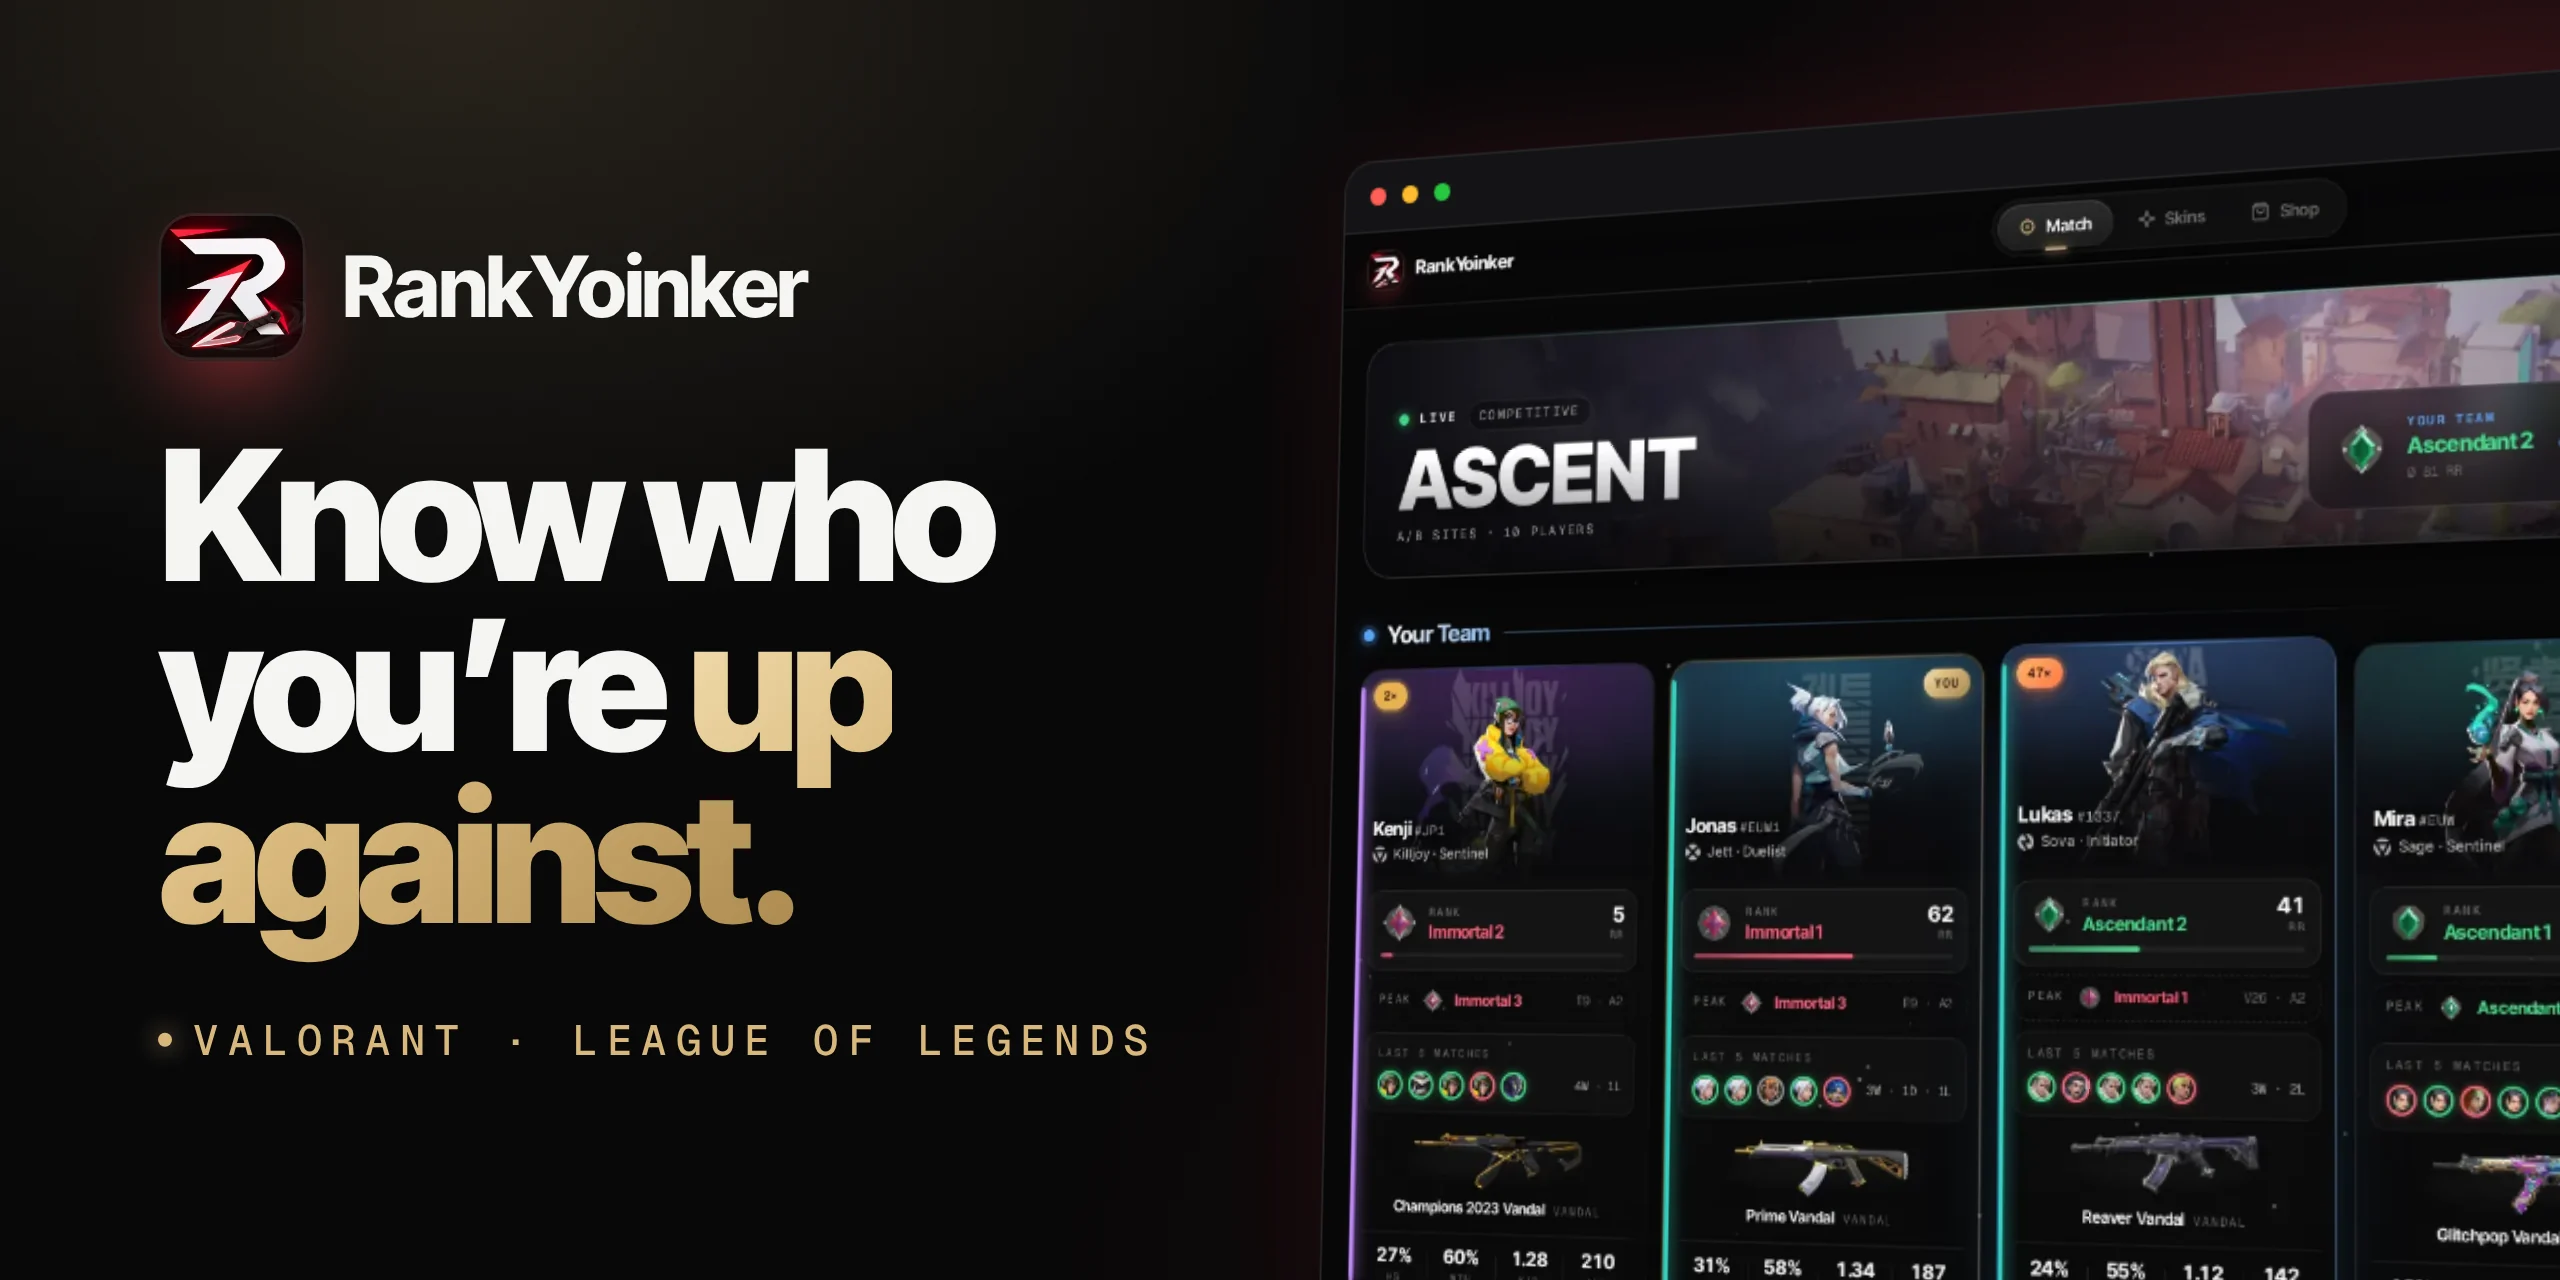
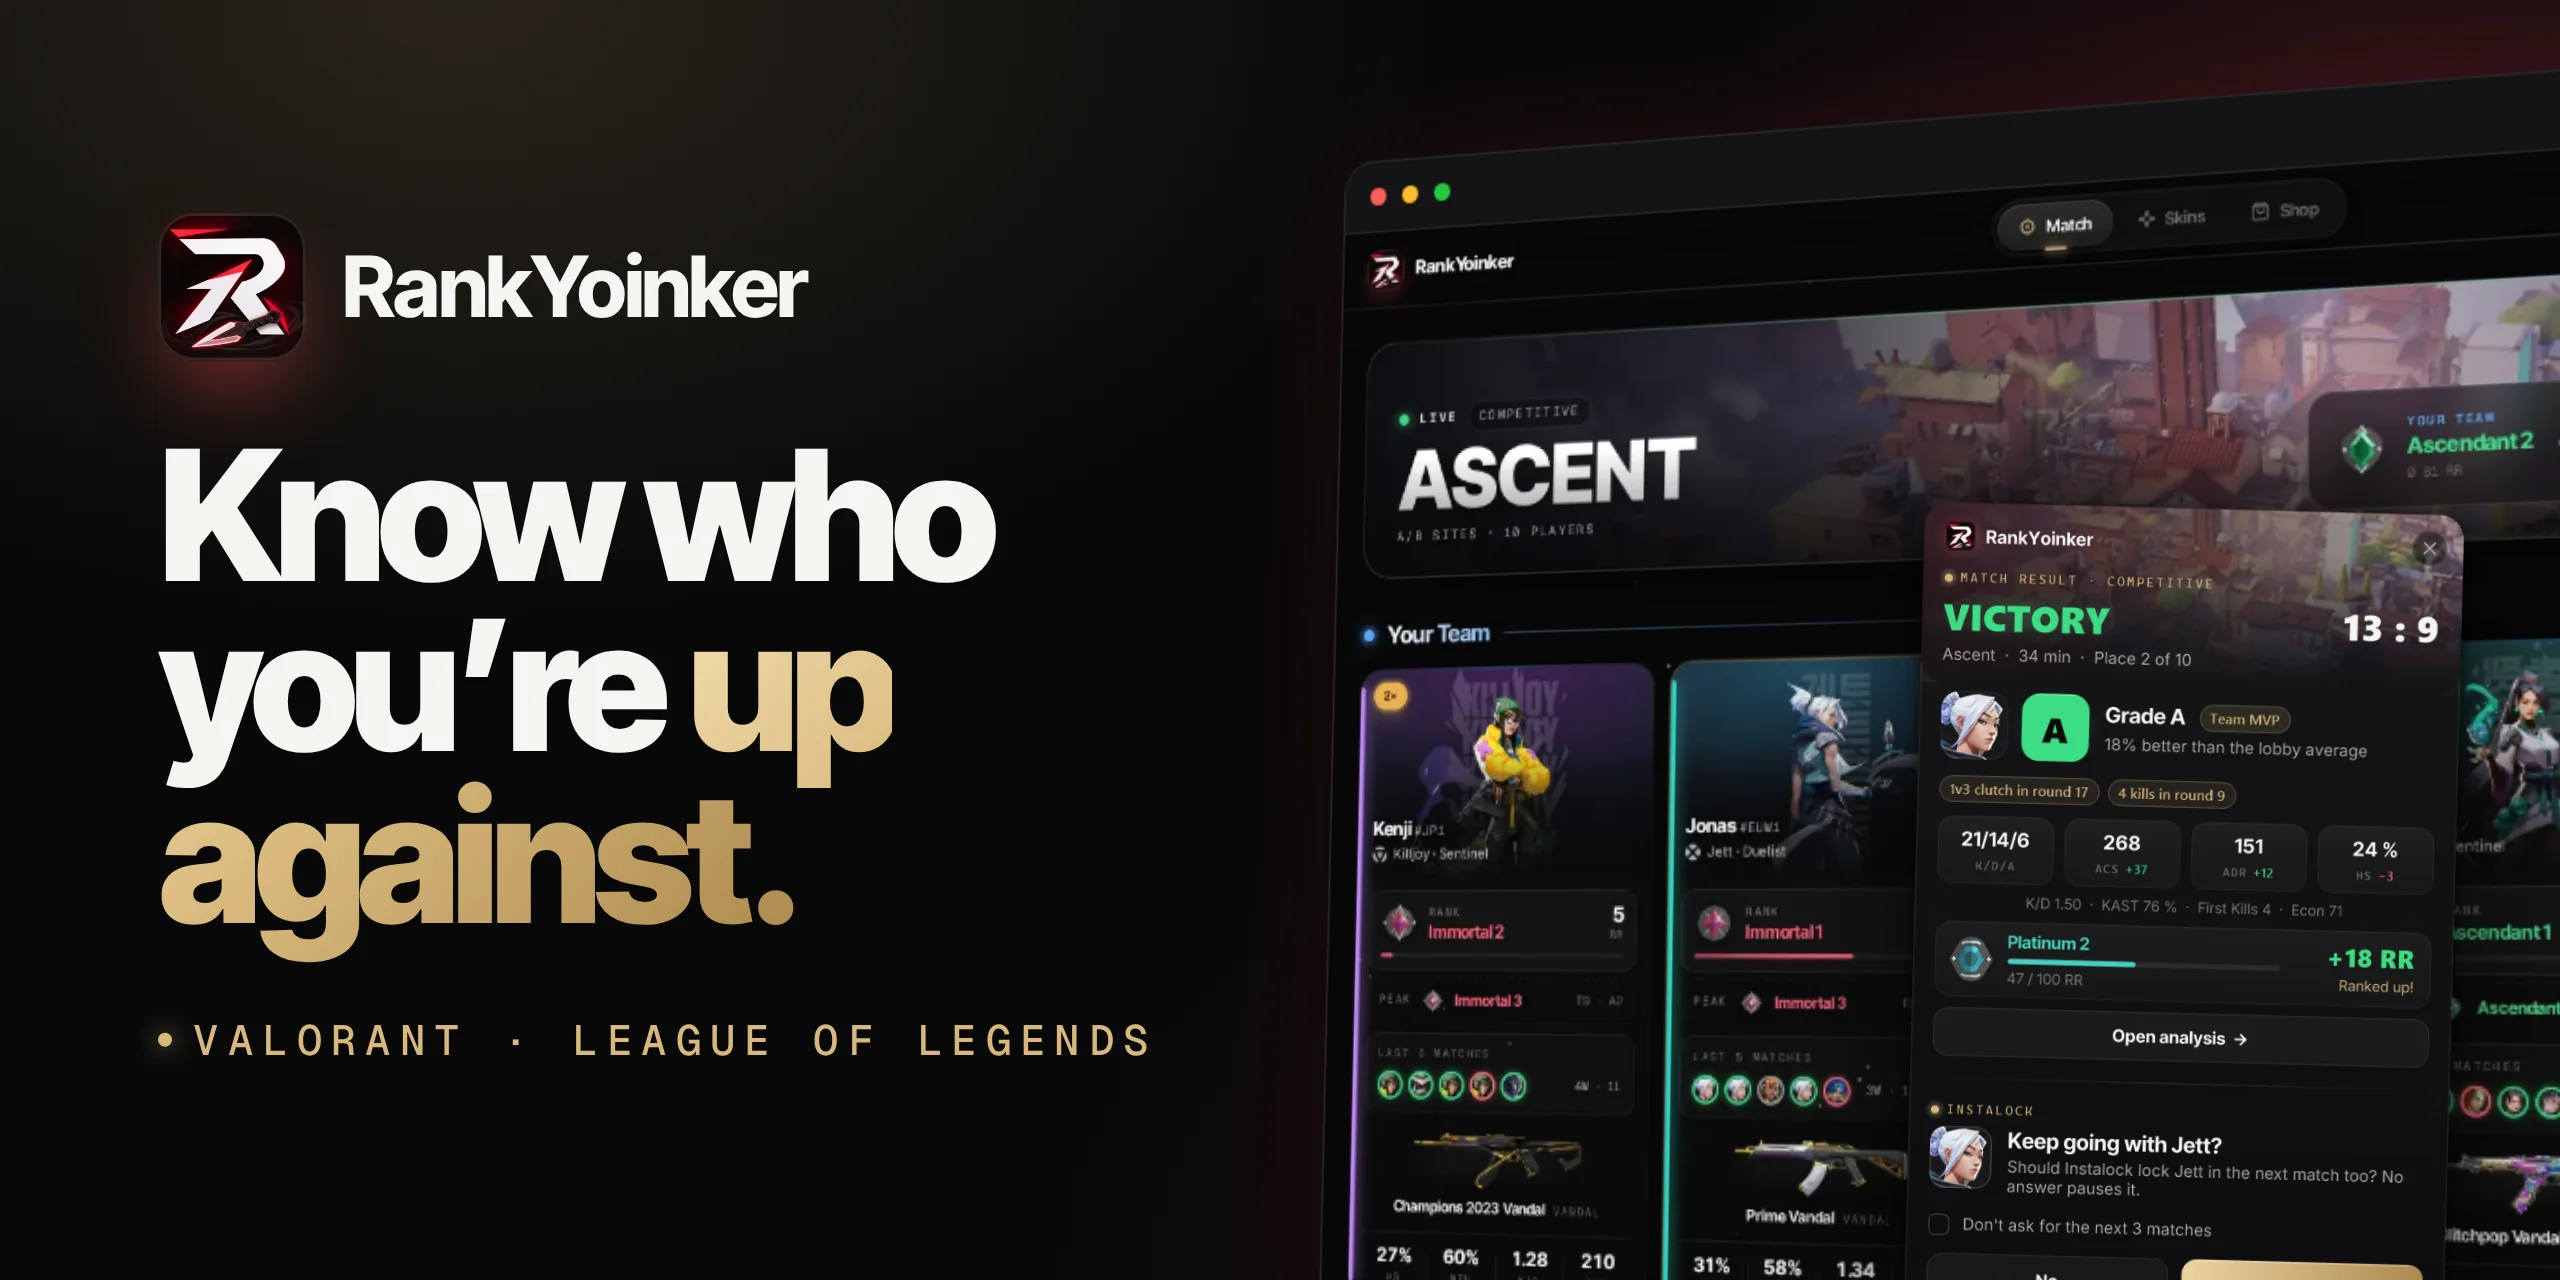
README: game overlay (2.5.5), new images with overlay, 10 languages

Changed region(s): [[0.7188, 0.375, 1.0, 1.0], [0.9062, 0.8438, 0.9688, 0.875], [0.9375, 0.7812, 0.9688, 0.8125]]

diff --git a/README.md b/README.md
@@ -1,6 +1,6 @@
 <div align="center">
 
-<a href="https://rankyoinker.de"><img src="docs/banner.webp" alt="RankYoinker: Know who you're up against. For VALORANT and League of Legends." width="100%"></a>
+<a href="https://rankyoinker.de"><img src="docs/banner.webp?v=2" alt="RankYoinker: Know who you're up against. For VALORANT and League of Legends." width="100%"></a>
 
 <br>
 
@@ -17,27 +17,30 @@ Plus instalock, auto pick, matchup builds, skins and your shop. One app for VALO
 
 ### [Download](https://rankyoinker.de/download) &nbsp;·&nbsp; [Website](https://rankyoinker.de) &nbsp;·&nbsp; [Live&nbsp;preview](https://rankyoinker.de/demo/) &nbsp;·&nbsp; [Discord](https://rankyoinker.de/discord)
 
-<sub>Windows 10/11 &nbsp;·&nbsp; free,&nbsp;no&nbsp;ads &nbsp;·&nbsp; open&nbsp;source &nbsp;·&nbsp; 7&nbsp;languages</sub>
+<sub>Windows 10/11 &nbsp;·&nbsp; free,&nbsp;no&nbsp;ads &nbsp;·&nbsp; open&nbsp;source &nbsp;·&nbsp; 10&nbsp;languages</sub>
 
 </div>
 
 <br>
 
-RankYoinker runs quietly in the background and fills in the overview on its own as soon as you play. There's no button to press and no overlay to toggle: open `http://rankyoinker` in any browser (or on your phone) and everything is there. It switches between VALORANT and League by itself.
+RankYoinker runs quietly in the background and fills in the overview on its own as soon as you play. There's no button to press: open `http://rankyoinker` in any browser (or on your phone) and everything is there. It switches between VALORANT and League by itself. New in 2.5.5: small windows right inside VALORANT, so you don't even have to tab out.
 
 ## VALORANT
 
 <table>
 <tr>
-<td width="50%"><img src="docs/screenshots/val-match.webp" alt="Live match overview with ranks, peak, RR and last matches of all ten players"><br><sub><b>Live match</b>: every player's rank, stats and parties</sub></td>
-<td width="50%"><img src="docs/screenshots/val-agent.webp" alt="Agent select in the browser with instalock"><br><sub><b>Agent select</b>: hover, lock and instalock from the browser</sub></td>
+<td width="50%"><img src="docs/screenshots/val-match.webp?v=2" alt="Live match overview with ranks, peak, RR and last matches of all ten players"><br><sub><b>Live match</b>: every player's rank, stats and parties</sub></td>
+<td width="50%"><img src="docs/screenshots/val-agent.webp?v=2" alt="Agent select in the browser with instalock"><br><sub><b>Agent select</b>: hover, lock and instalock from the browser</sub></td>
 </tr>
 <tr>
-<td width="50%"><img src="docs/screenshots/val-skins.webp" alt="Skins and loadout presets"><br><sub><b>Skins</b>: swap skins and save whole loadouts as presets</sub></td>
-<td width="50%"><img src="docs/screenshots/val-shop.webp" alt="Daily shop, bundles and Night Market"><br><sub><b>Shop</b>: daily offers, bundles and the Night Market</sub></td>
+<td width="50%"><img src="docs/screenshots/val-skins.webp?v=2" alt="Skins and loadout presets"><br><sub><b>Skins</b>: swap skins and save whole loadouts as presets</sub></td>
+<td width="50%"><img src="docs/screenshots/val-shop.webp?v=2" alt="Daily shop, bundles and Night Market"><br><sub><b>Shop</b>: daily offers, bundles and the Night Market</sub></td>
 </tr>
 </table>
 
+<p align="center"><img src="docs/screenshots/val-overlay.webp?v=2" alt="In-game overlay: ranks in agent select, all players while holding Tab, result card after the match" width="100%"><br><sub><b>In-game overlay</b> (new in 2.5.5): agent select, the player table while you hold Tab, and your result after the match</sub></p>
+
+- **In-game overlay (new).** Ranks, parties and win rates already in agent select, every player with rank, peak and last five matches while you hold Tab, and your grade, K/D/A, RR and highlights after the match. Small windows right on top of VALORANT that never take focus. Don't want it? Turn it off with one click under "Game overlay" in the settings.
 - **Live match overview.** Rank, peak, RR, win rate, K/D and the last five matches of all ten players, plus a team comparison showing who has the edge.
 - **Agent select in your browser.** Hover and lock agents, pin favorites and dodge if you need to, right from the overlay.
 - **Instalock.** Locks your agent after a random delay of 11 to 12 seconds, even with the tab closed.
@@ -51,8 +54,8 @@ RankYoinker runs quietly in the background and fills in the overview on its own 
 
 <table>
 <tr>
-<td width="50%"><img src="docs/screenshots/lol-champ.webp" alt="Draft-style champ select with bans, picks and timer"><br><sub><b>Champ select</b>: picks, bans, timer and auto pick/ban</sub></td>
-<td width="50%"><img src="docs/screenshots/lol-game.webp" alt="Live game with lane matchups and ranks of all ten players"><br><sub><b>Live game</b>: lane matchups, kills, CS and ranks</sub></td>
+<td width="50%"><img src="docs/screenshots/lol-champ.webp?v=2" alt="Draft-style champ select with bans, picks and timer"><br><sub><b>Champ select</b>: picks, bans, timer and auto pick/ban</sub></td>
+<td width="50%"><img src="docs/screenshots/lol-game.webp?v=2" alt="Live game with lane matchups and ranks of all ten players"><br><sub><b>Live game</b>: lane matchups, kills, CS and ranks</sub></td>
 </tr>
 </table>
 
